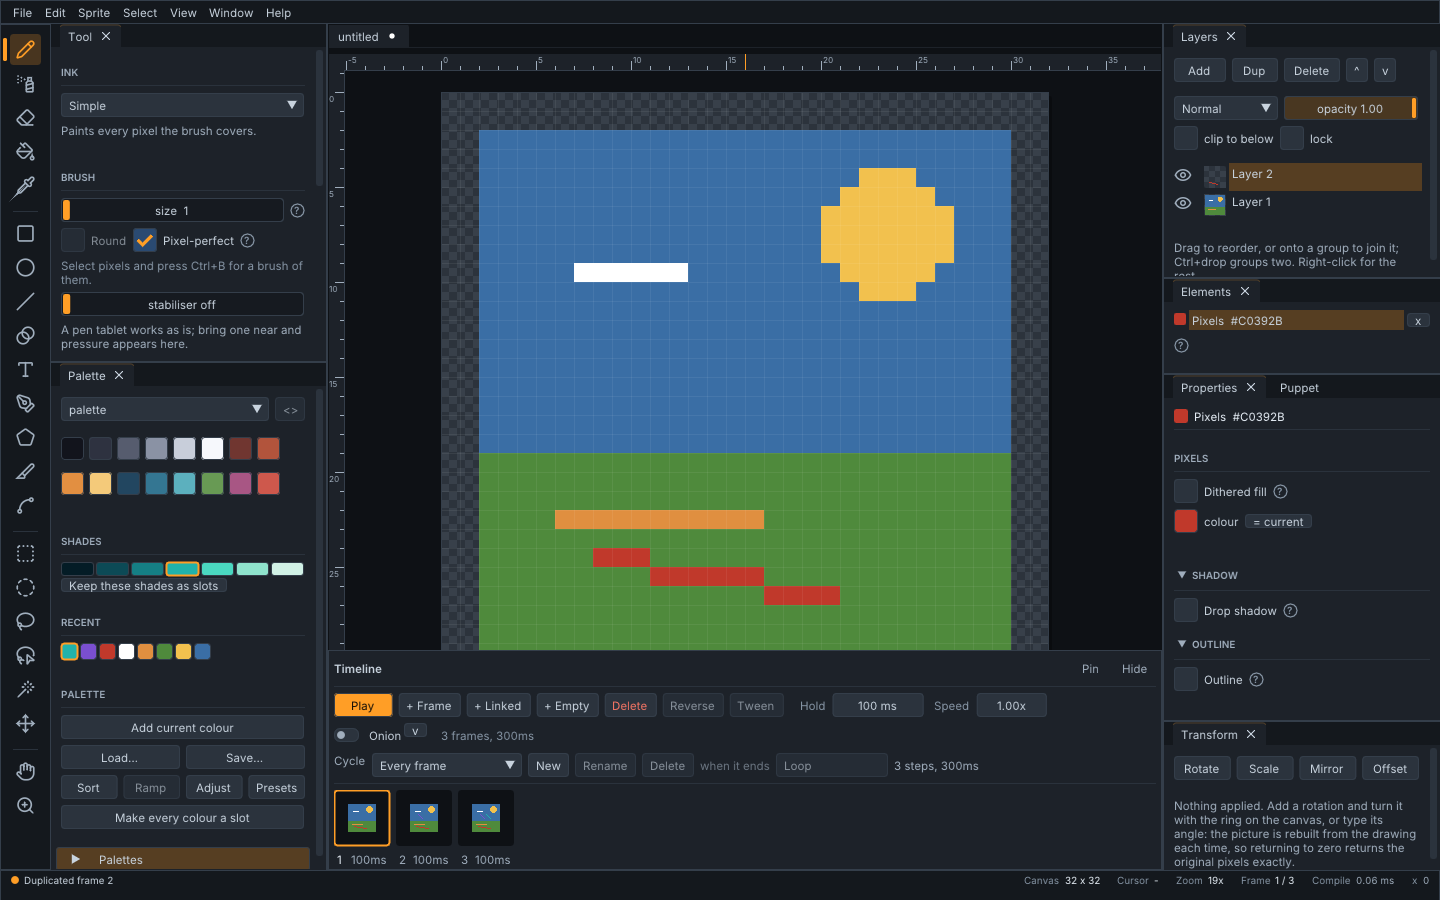
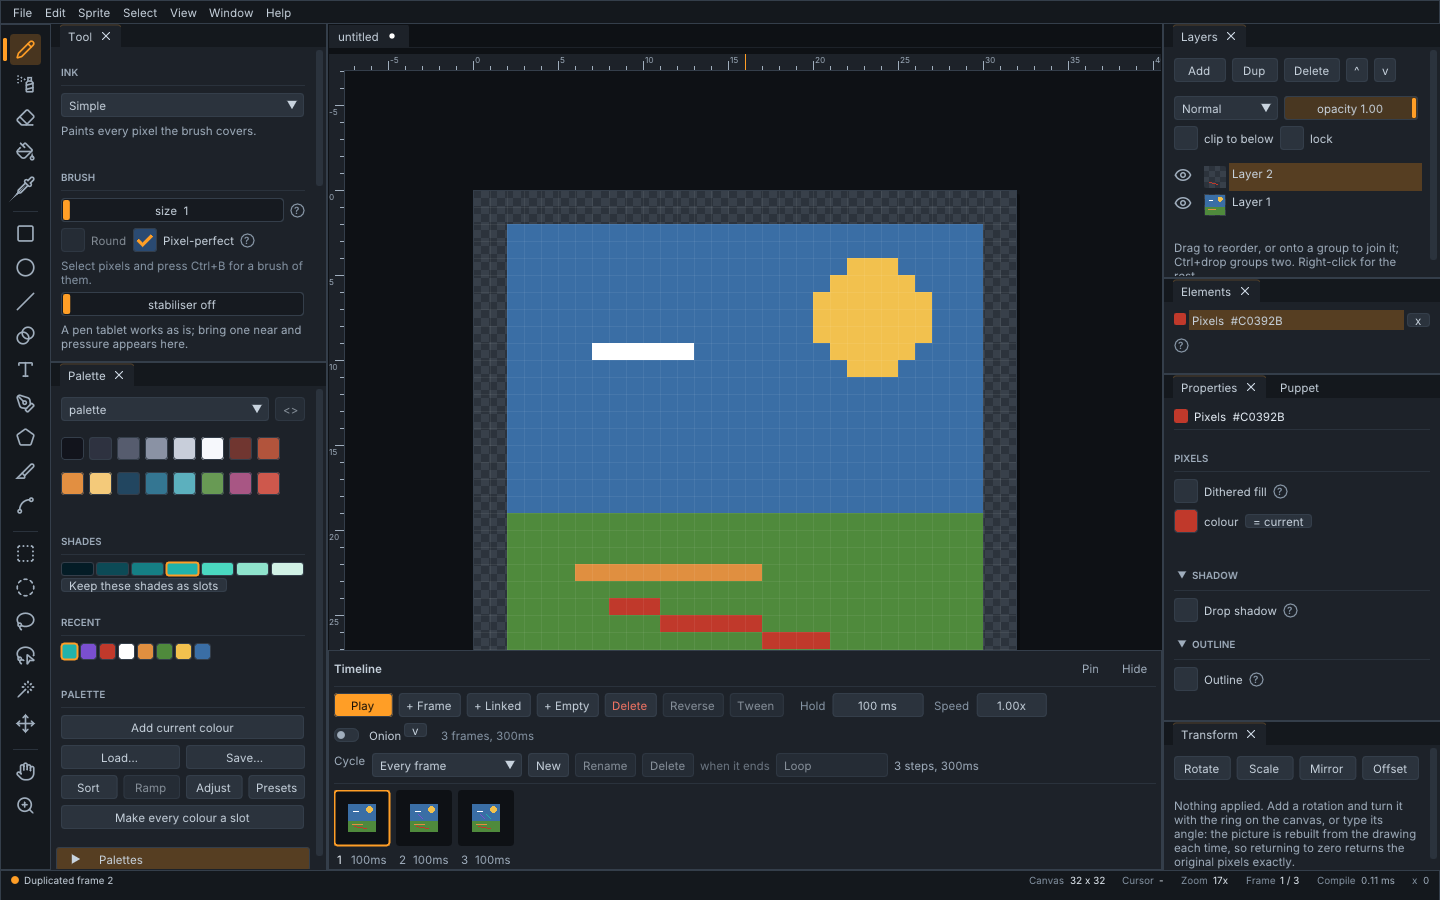
The Store screenshots are the current screens
The canvas is centred and the start screen has changed, so the drawing, timeline, animation, start,
themes and appearance screenshots are taken again from the gallery (the same screens and themes as before).

diff --git a/store/listing/en-us.md b/store/listing/en-us.md
@@ -75,7 +75,7 @@ Upload the images in `store/screenshots/` in the order of their file names. Capt
 1. `01-drawing.png` -- A drawing in progress: tools on the left, layers and properties on the right.
 2. `02-timeline.png` -- The timeline opened over the canvas with its frames.
 3. `03-animation.png` -- The Animation layout, with the timeline pinned.
-4. `04-start.png` -- The start screen: templates, recent files, new document options.
+4. `04-start.png` -- The start screen: ways in, presets with pictures, recent files, new document options.
 5. `05-themes.png` -- Nine themes, from OLED to high contrast to Famicom.
 6. `06-appearance.png` -- Your own colours for every part of the interface.
 
